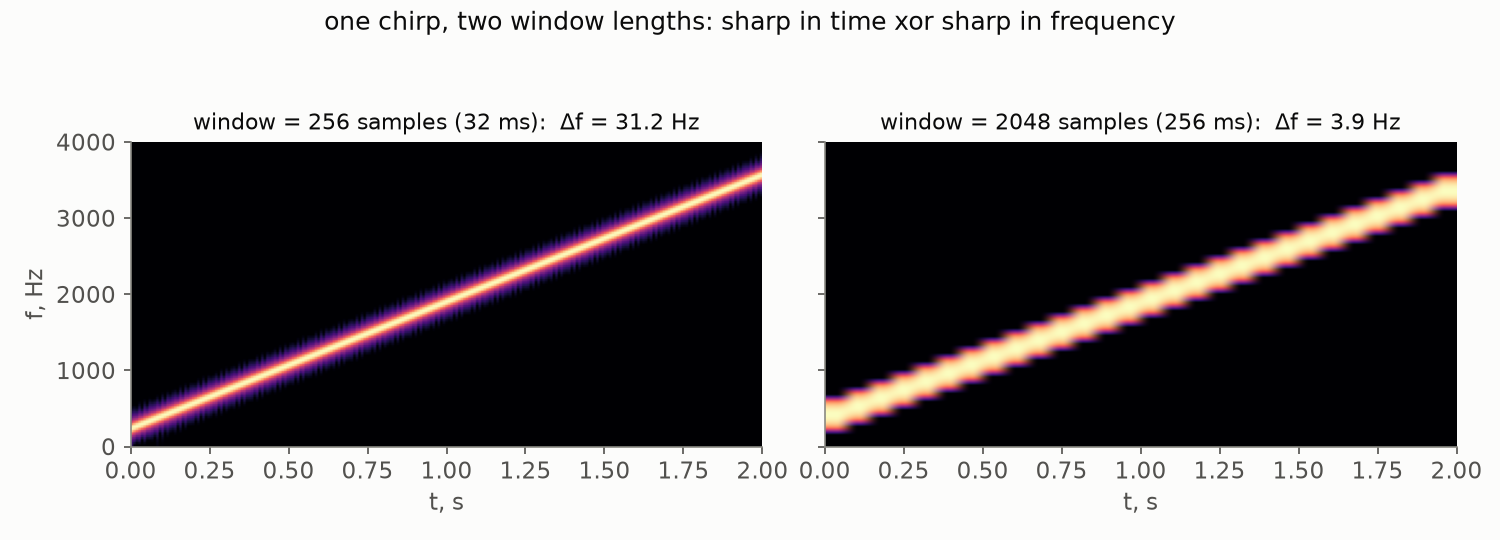
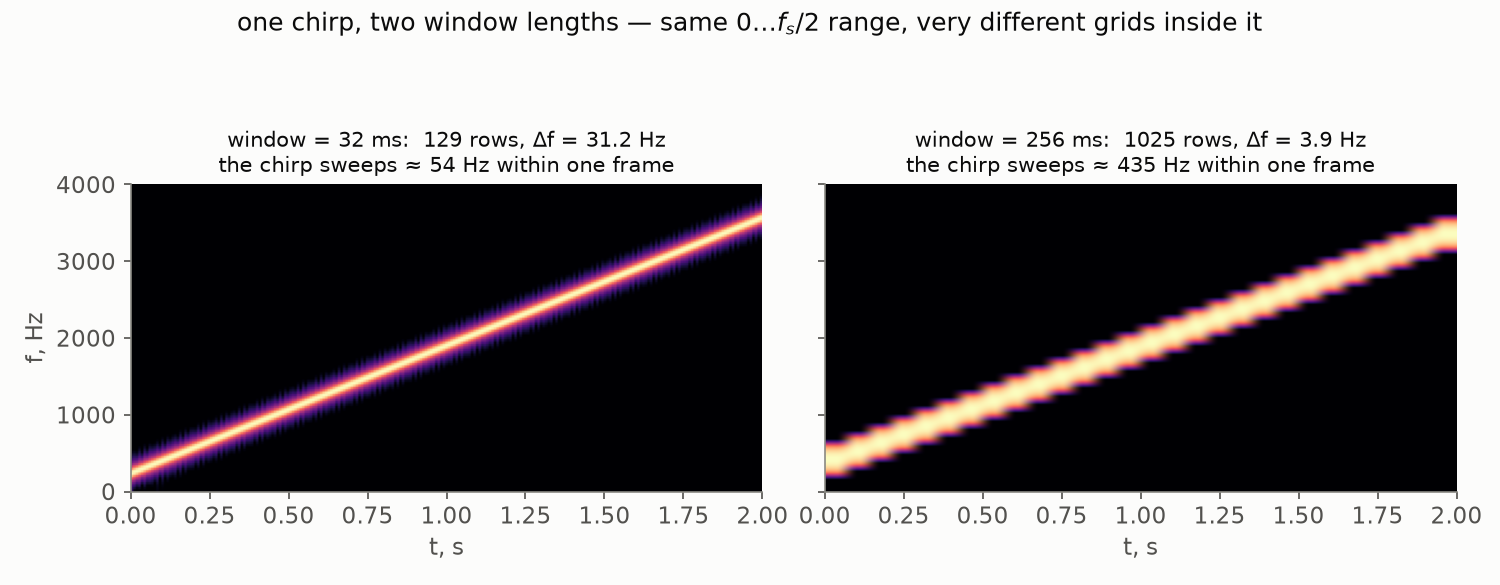
Chirp demo: annotate rows/sweep on the figure, spell out the arithmetic in text
Both panels share the 0..fs/2 range (set by fs); the grids inside differ
(129 vs 1025 rows). Sweep-per-frame numbers explain thin vs smeared line:
resolution only resolves signals that hold still for the window.

diff --git a/content/posts/fourier-series-to-spectrogram-part-3/index.md b/content/posts/fourier-series-to-spectrogram-part-3/index.md
@@ -215,13 +215,23 @@ slide whistle):
 
 ![One chirp under a short and a long window](chirp_tradeoff.png)
 
-The short window draws a crisp thin line: within each 32 ms frame the chirp
-is nearly a constant tone, and $\Delta f = 31$ Hz is plenty. The long
-window has $\Delta f = 3.9$ Hz — eight times sharper on paper — yet its
-picture is *worse*: during each 256 ms frame the chirp sweeps through
-hundreds of hertz, and the fine frequency grid resolves a smear. Sharper
-$\Delta f$ bought blurrier time, and for this signal time was where the
-action lived.
+First, note what the two pictures share and what they do not. The vertical
+axis is the same on both: it runs from $0$ to $f_s/2$, and that *range* is
+fixed by the sampling rate alone. What differs is the grid packed inside
+it: the left picture has $129$ rows spaced $31.2$ Hz apart, the right one
+$1025$ rows spaced $3.9$ Hz apart — eight times finer, on paper.
+
+Now the arithmetic of what each column actually sees. The chirp climbs at
+$(3600 - 200)/2 = 1700$ Hz per second. During one $32$ ms frame it sweeps
+through about $54$ Hz — a couple of bins of the left grid: the frame is
+nearly a constant tone, and the line comes out about as thin as $\Delta f$
+allows. During one $256$ ms frame the chirp sweeps through about $435$ Hz —
+more than a *hundred* bins of the right grid. And the column reports the
+truth: the frame genuinely contained all of those frequencies, so the fine
+grid faithfully resolves… a smear $435$ Hz wide. The sharper $\Delta f$
+bought a worse picture, because **frequency resolution is only resolution
+for signals that hold still for the whole window** — and a chirp, by
+definition, never does.
 
 There is no window length that wins both ways — only a choice matched to
 the signal. This is not an engineering shortcoming but mathematics: time
